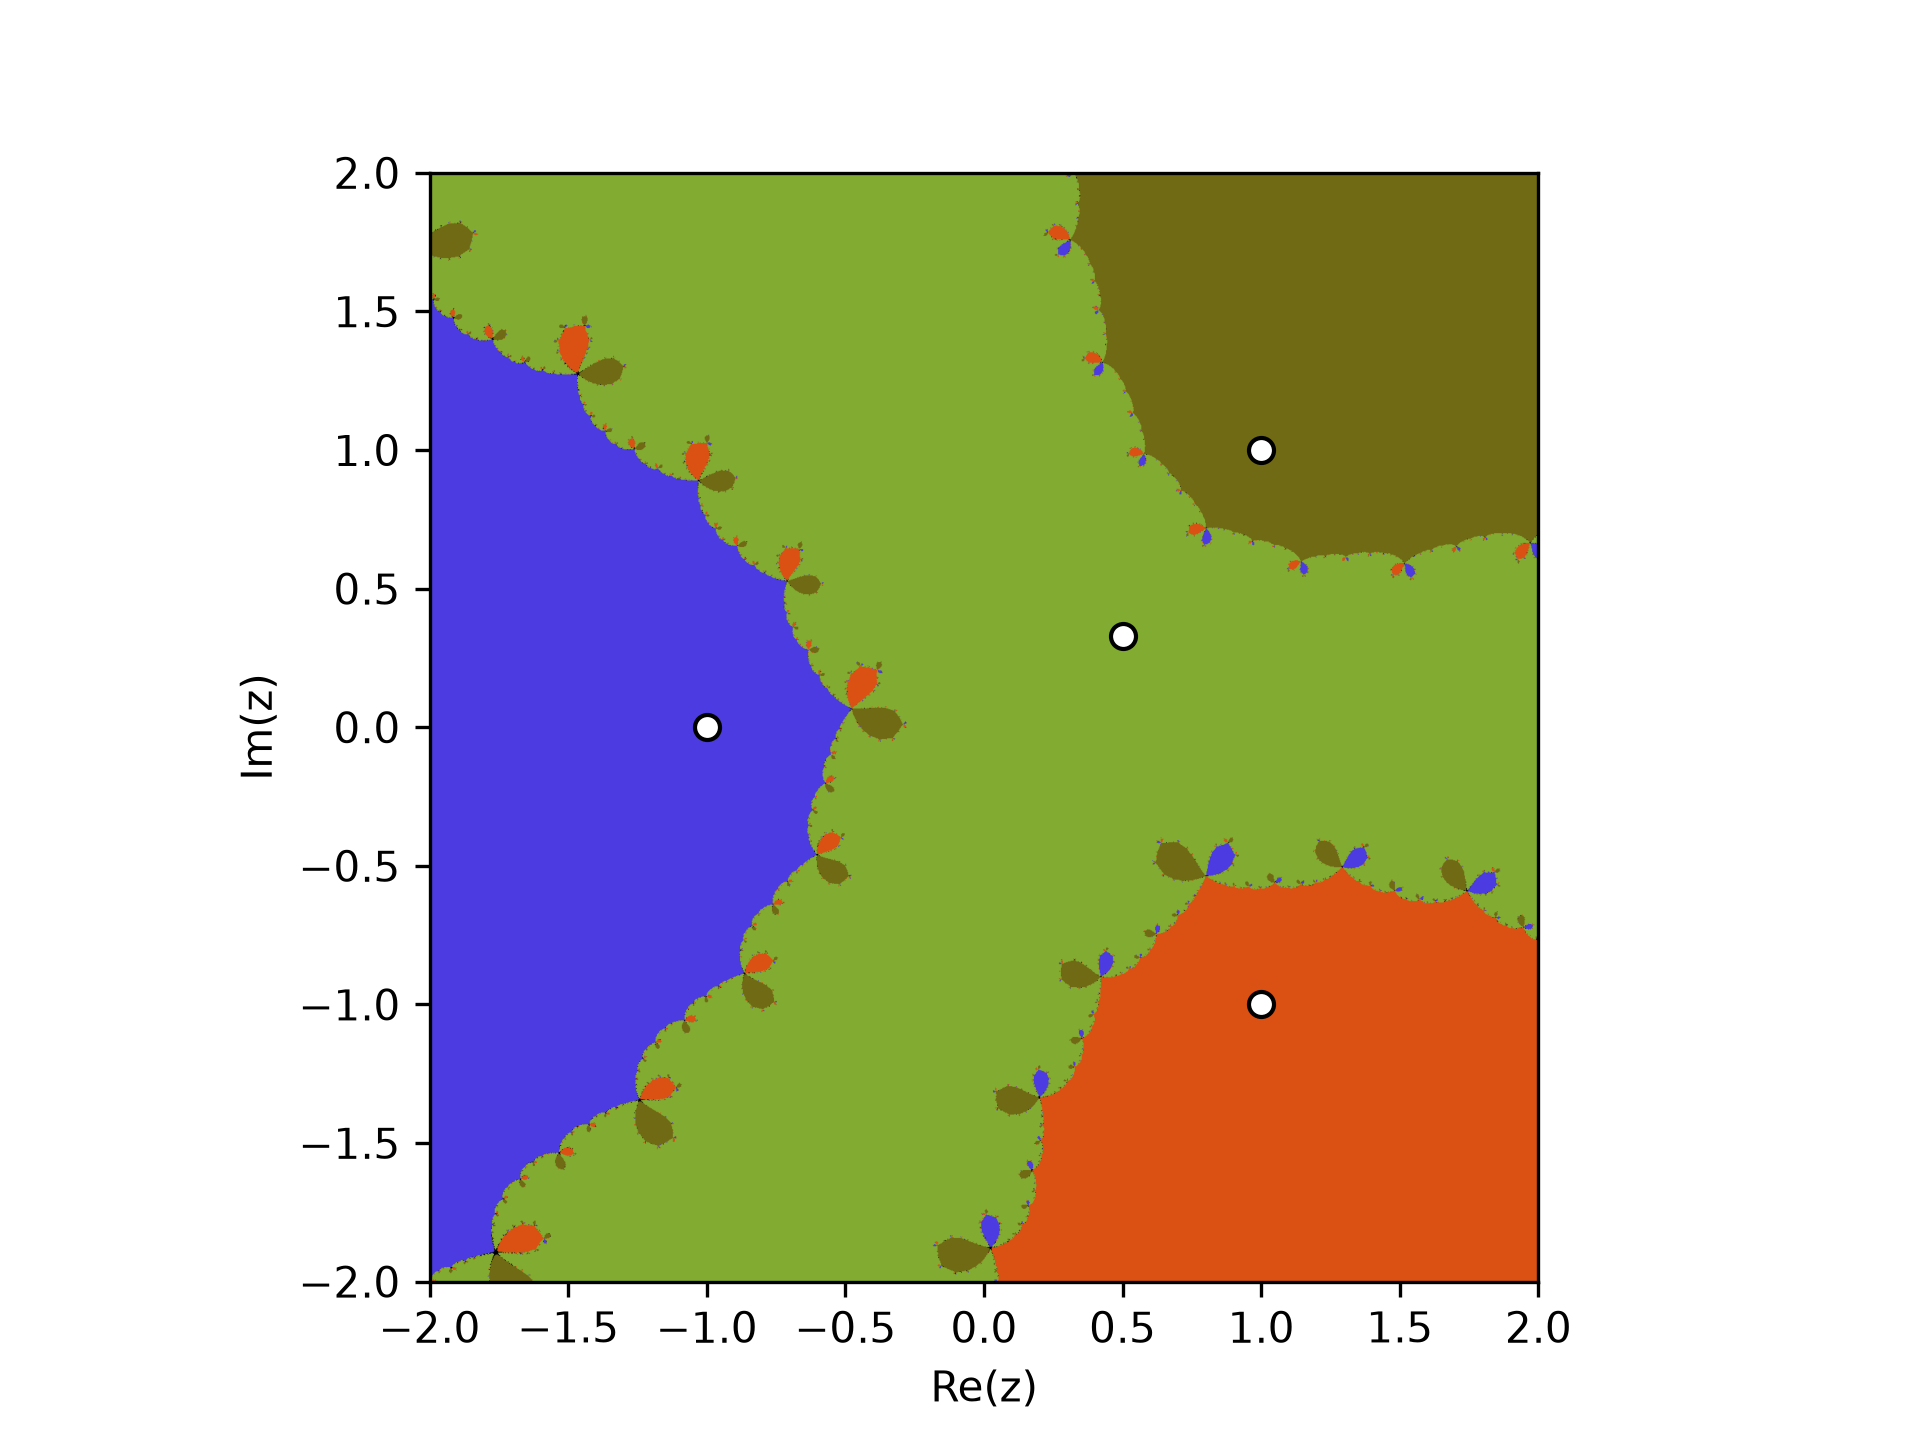
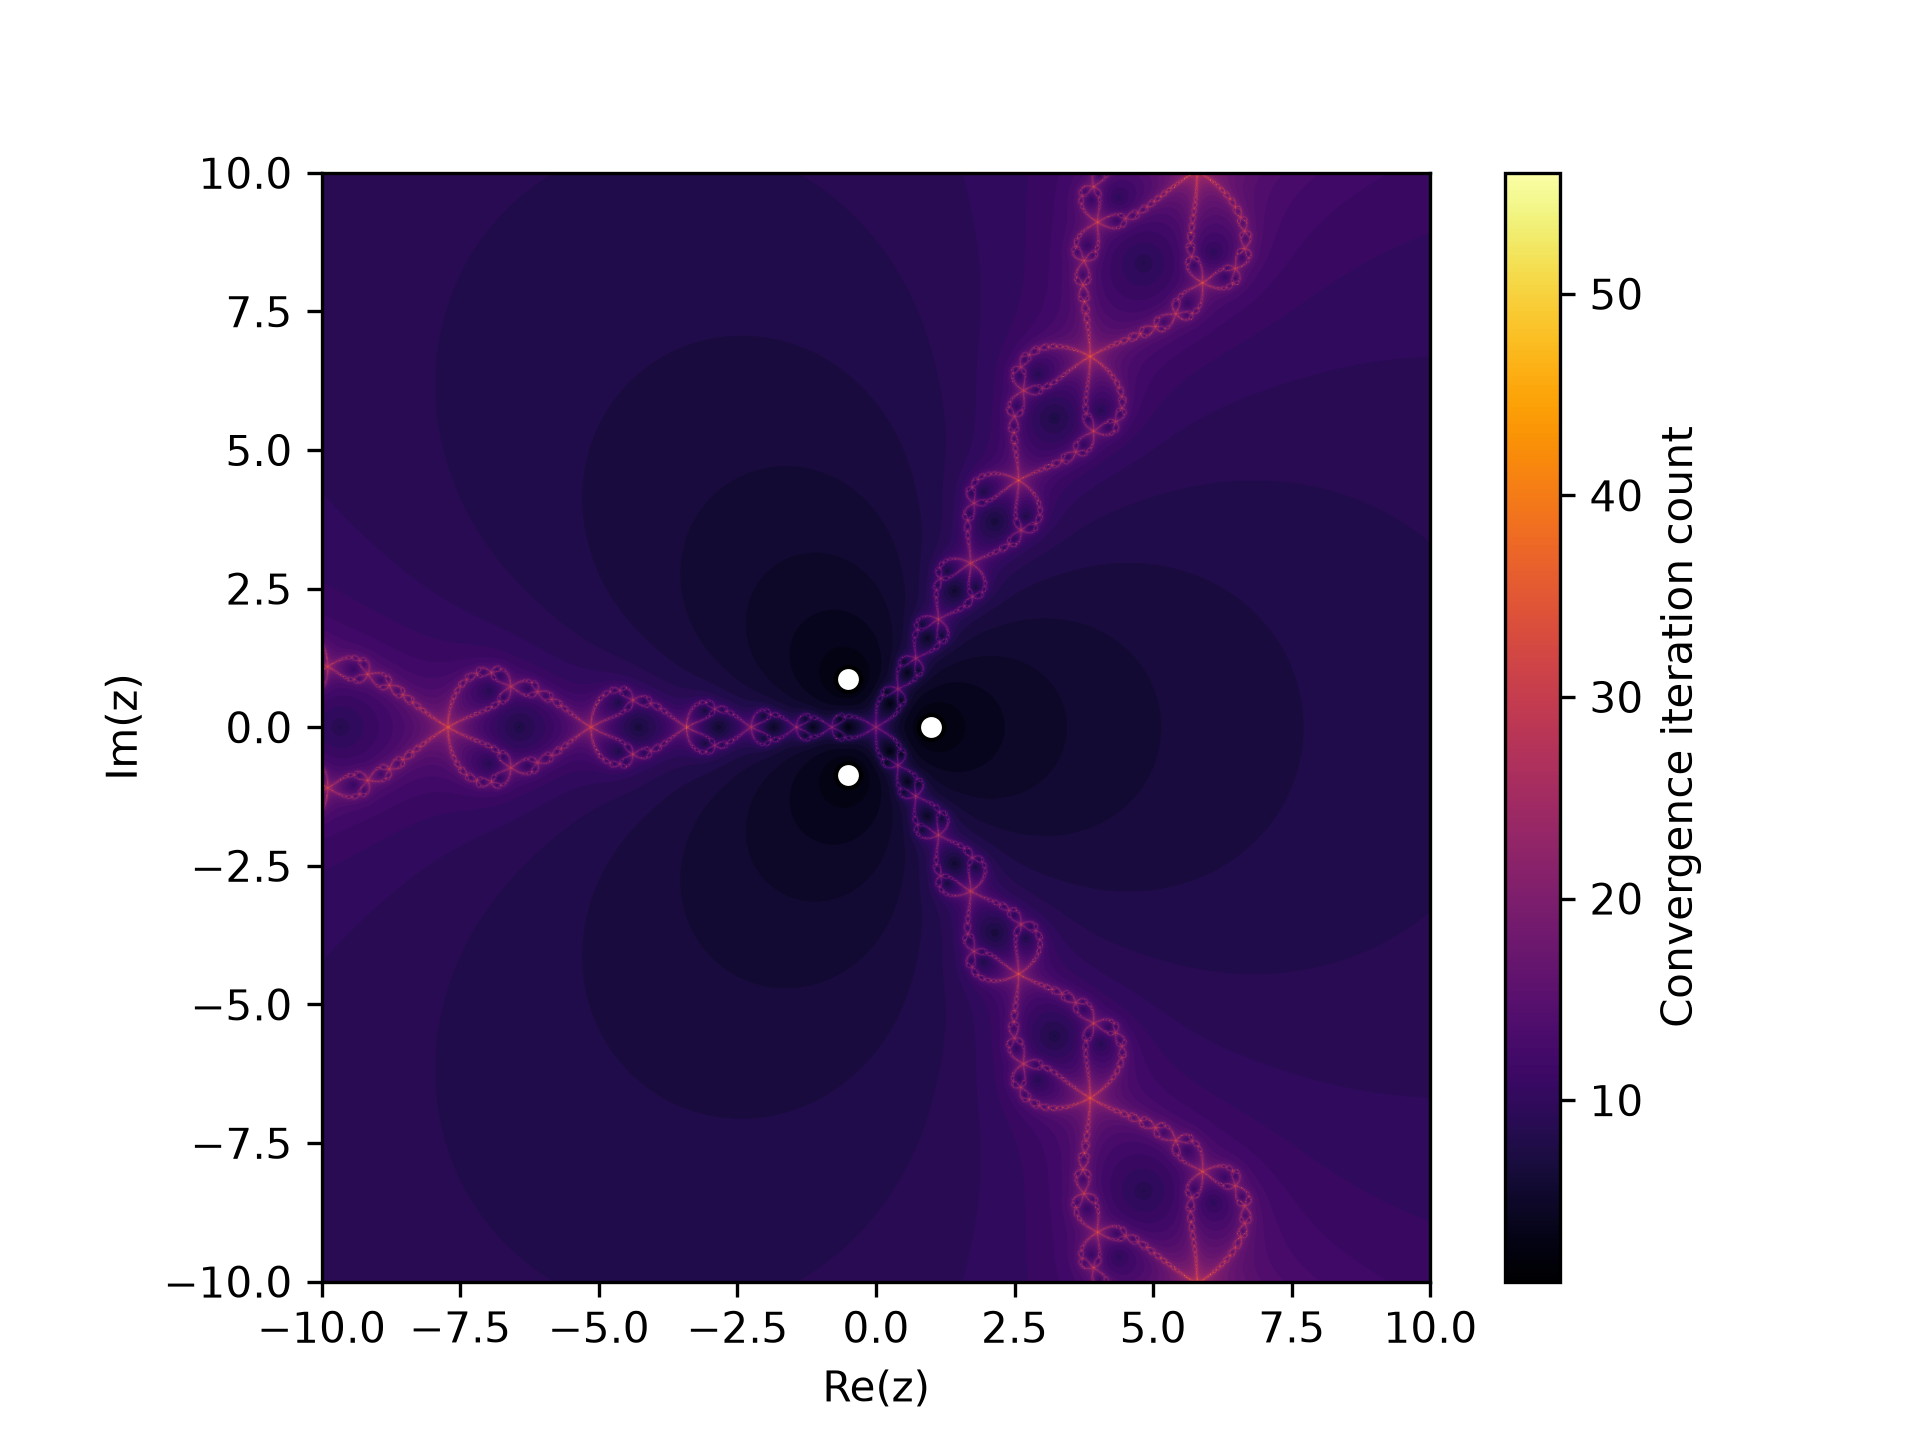
pf updated homework

diff --git a/Subjects/NOFY056-PF/homework/homework_6.5/main.py b/Subjects/NOFY056-PF/homework/homework_6.5/main.py
@@ -18,48 +18,44 @@ class NewtonFractal:
     def compute(self, lower, upper, res, max_iter):
         plane = np.linspace(lower.real, upper.real, res)[None, :] + 1j * np.linspace(lower.imag, upper.imag, res)[:, None]
 
-        for _ in range(max_iter):
-            plane -= self.poly(plane)/self.dpoly(plane)
+        # iterations at which a given point has converged, max_iter means non-convergence
+        iterations = np.full(plane.shape, max_iter, dtype=np.int32)
+        # mask to update the plane
+        active = np.ones(plane.shape, dtype=bool)
 
-        # for each point compute distance to every root - shape expands to (res, res, len(roots))
-        distances = np.abs(plane[..., None] - self.roots)
-        # argmin by last(deepest) axis - returns the indices of the minimal distance n-tuples that correspond to the closest root
-        # shape goes back to (res, res)
-        root_indices = np.argmin(distances, axis=-1)
-        # find those distances(by deepest axis again)
-        # shape goes back to (res, res)
-        min_distances = np.min(distances, axis=-1)
+        for i in range(max_iter):
+            # update only non-converged points
+            z = plane[active]
+            plane[active] = z - self.poly(z)/self.dpoly(z)
 
-        # filter out all converged points
-        converged = min_distances <= self.epsilon
+            # filter out newly converged points
+            dist = np.min(np.abs(plane[active][:, None] - self.roots), axis=-1)
+            newly_converged = np.zeros(plane.shape, dtype=bool)
+            newly_converged[active] = dist <= self.epsilon
 
-        return np.where(converged, root_indices, -1)
+            # update iterations plane
+            iterations[newly_converged] = i
+            # update active mask
+            active &= ~newly_converged
 
-    def plot(self, lower: complex, upper:complex, res = 800, max_iter = 20):
-        rng = np.random.default_rng()
-        n = len(self.roots)
+            # exit early if all points converged
+            if not active.any():
+                break
 
-        # generate random colors for the rooots
-        colors = rng.integers(0, 256, size=(n,3), dtype=np.uint8)
-        # last color is black for -1 indexing
-        colors = np.vstack([colors, [0,0,0]])
+        return iterations
 
-        indices = self.compute(lower, upper, res, max_iter)
-        img = colors[indices]
+    def plot(self, lower: complex, upper: complex, res=800, max_iter=50):
+        iterations = self.compute(lower, upper, res, max_iter)
 
         plt.imshow(
-            img,
+            iterations,
             origin="lower",
             extent=(lower.real, upper.real, lower.imag, upper.imag),
+            cmap="inferno",
         )
+        plt.colorbar(label="Convergence iteration count")
 
-        plt.scatter(
-            self.roots.real,
-            self.roots.imag,
-            c="white",
-            edgecolors="black",
-        )
-
+        plt.scatter(self.roots.real, self.roots.imag, c="white", edgecolors="black")
         plt.xlabel("Re(z)")
         plt.ylabel("Im(z)")
         plt.savefig("out.png", dpi=300)
@@ -67,9 +63,9 @@ class NewtonFractal:
 
 
 def main():
-    nf = NewtonFractal(-1, 1 + 1j, 1 - 1j, 0.5 + 0.33j)
+    nf = NewtonFractal(*[np.e**(2/3 * np.pi * 1j * i) for i in [0,1,2]])
 
-    nf.plot(-2 -2j, 2 + 2j, res=1600)
+    nf.plot(-10 -10j, 10 + 10j, res=2000, max_iter=100)
 
 if __name__ == "__main__":
     main()

diff --git a/Subjects/NOFY056-PF/homework/homework_6.5/submission/main.py b/Subjects/NOFY056-PF/homework/homework_6.5/submission/main.py
@@ -18,48 +18,44 @@ class NewtonFractal:
     def compute(self, lower, upper, res, max_iter):
         plane = np.linspace(lower.real, upper.real, res)[None, :] + 1j * np.linspace(lower.imag, upper.imag, res)[:, None]
 
-        for _ in range(max_iter):
-            plane -= self.poly(plane)/self.dpoly(plane)
+        # iterations at which a given point has converged, max_iter means non-convergence
+        iterations = np.full(plane.shape, max_iter, dtype=np.int32)
+        # mask to update the plane
+        active = np.ones(plane.shape, dtype=bool)
 
-        # for each point compute distance to every root - shape expands to (res, res, len(roots))
-        distances = np.abs(plane[..., None] - self.roots)
-        # argmin by last(deepest) axis - returns the indices of the minimal distance n-tuples that correspond to the closest root
-        # shape goes back to (res, res)
-        root_indices = np.argmin(distances, axis=-1)
-        # find those distances(by deepest axis again)
-        # shape goes back to (res, res)
-        min_distances = np.min(distances, axis=-1)
+        for i in range(max_iter):
+            # update only non-converged points
+            z = plane[active]
+            plane[active] = z - self.poly(z)/self.dpoly(z)
 
-        # filter out all converged points
-        converged = min_distances <= self.epsilon
+            # filter out newly converged points
+            dist = np.min(np.abs(plane[active][:, None] - self.roots), axis=-1)
+            newly_converged = np.zeros(plane.shape, dtype=bool)
+            newly_converged[active] = dist <= self.epsilon
 
-        return np.where(converged, root_indices, -1)
+            # update iterations plane
+            iterations[newly_converged] = i
+            # update active mask
+            active &= ~newly_converged
 
-    def plot(self, lower: complex, upper:complex, res = 800, max_iter = 20):
-        rng = np.random.default_rng()
-        n = len(self.roots)
+            # exit early if all points converged
+            if not active.any():
+                break
 
-        # generate random colors for the rooots
-        colors = rng.integers(0, 256, size=(n,3), dtype=np.uint8)
-        # last color is black for -1 indexing
-        colors = np.vstack([colors, [0,0,0]])
+        return iterations
 
-        indices = self.compute(lower, upper, res, max_iter)
-        img = colors[indices]
+    def plot(self, lower: complex, upper: complex, res=800, max_iter=50):
+        iterations = self.compute(lower, upper, res, max_iter)
 
         plt.imshow(
-            img,
+            iterations,
             origin="lower",
             extent=(lower.real, upper.real, lower.imag, upper.imag),
+            cmap="inferno",
         )
+        plt.colorbar(label="Convergence iteration count")
 
-        plt.scatter(
-            self.roots.real,
-            self.roots.imag,
-            c="white",
-            edgecolors="black",
-        )
-
+        plt.scatter(self.roots.real, self.roots.imag, c="white", edgecolors="black")
         plt.xlabel("Re(z)")
         plt.ylabel("Im(z)")
         plt.savefig("out.png", dpi=300)
@@ -67,9 +63,9 @@ class NewtonFractal:
 
 
 def main():
-    nf = NewtonFractal(-1, 1 + 1j, 1 - 1j, 0.5 + 0.33j)
+    nf = NewtonFractal(*[np.e**(2/3 * np.pi * 1j * i) for i in [0,1,2]])
 
-    nf.plot(-2 -2j, 2 + 2j, res=1600)
+    nf.plot(-10 -10j, 10 + 10j, res=2000, max_iter=100)
 
 if __name__ == "__main__":
     main()
